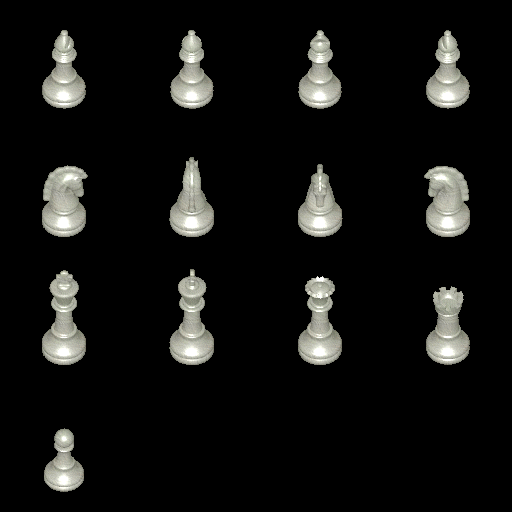
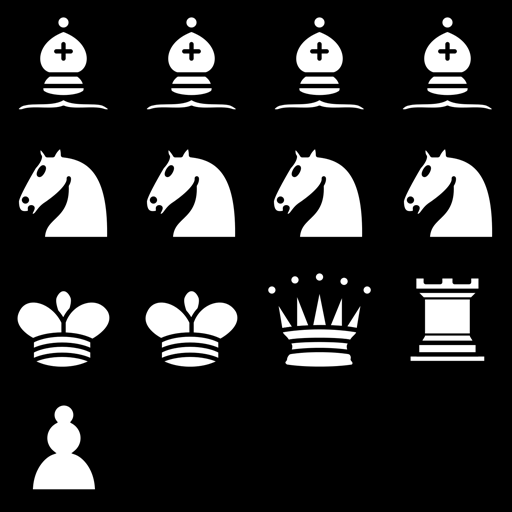
Updated visual

diff --git a/piece.py b/piece.py
@@ -8,107 +8,51 @@ from constants import BLACK, PIECE_GREEN_BG, TILE_LENGTH
 from utils import coordinate_builder_to_absolute_coord
 from client import Client
 
+selected_img = pygame.transform.scale(
+    pygame.image.load(os.path.join("assets", "images", "selected.png")),
+    (TILE_LENGTH, TILE_LENGTH))
+
 king_img_w = pygame.transform.scale(
-    pygame.image.load(os.path.join("assets", "images", "white_pieces.png")).subsurface((0, 256, 128, 128)),
+    pygame.image.load(os.path.join("assets", "images", "white_pieces", "white_king.png")),
     (TILE_LENGTH, TILE_LENGTH))
-king_img_w.set_colorkey(BLACK)
-king_img_ws = pygame.transform.scale(
-    pygame.image.load(os.path.join("assets", "images", "selected_pieces.png")).subsurface((0, 256, 128, 128)),
-    (TILE_LENGTH, TILE_LENGTH))
-king_img_ws.set_colorkey(BLACK)
 king_img_b = pygame.transform.scale(
-    pygame.image.load(os.path.join("assets", "images", "black_pieces.png")).subsurface((0, 256, 128, 128)),
+    pygame.image.load(os.path.join("assets", "images", "black_pieces", "black_king.png")),
     (TILE_LENGTH, TILE_LENGTH))
-king_img_b.set_colorkey(PIECE_GREEN_BG)
-king_img_bs = pygame.transform.scale(
-    pygame.image.load(os.path.join("assets", "images", "selected_pieces.png")).subsurface((0, 256, 128, 128)),
-    (TILE_LENGTH, TILE_LENGTH))
-king_img_bs.set_colorkey(BLACK)
 
 queen_img_w = pygame.transform.scale(
-    pygame.image.load(os.path.join("assets", "images", "white_pieces.png")).subsurface((256, 256, 128, 128)),
+    pygame.image.load(os.path.join("assets", "images", "white_pieces", "white_queen.png")),
     (TILE_LENGTH, TILE_LENGTH))
-queen_img_w.set_colorkey(BLACK)
-queen_img_ws = pygame.transform.scale(
-    pygame.image.load(os.path.join("assets", "images", "selected_pieces.png")).subsurface((256, 256, 128, 128)),
-    (TILE_LENGTH, TILE_LENGTH))
-queen_img_ws.set_colorkey(BLACK)
 queen_img_b = pygame.transform.scale(
-    pygame.image.load(os.path.join("assets", "images", "black_pieces.png")).subsurface((256, 256, 128, 128)),
+    pygame.image.load(os.path.join("assets", "images", "black_pieces", "black_queen.png")),
     (TILE_LENGTH, TILE_LENGTH))
-queen_img_b.set_colorkey(PIECE_GREEN_BG)
-queen_img_bs = pygame.transform.scale(
-    pygame.image.load(os.path.join("assets", "images", "selected_pieces.png")).subsurface((256, 256, 128, 128)),
-    (TILE_LENGTH, TILE_LENGTH))
-queen_img_bs.set_colorkey(BLACK)
 
 rook_img_w = pygame.transform.scale(
-    pygame.image.load(os.path.join("assets", "images", "white_pieces.png")).subsurface((384, 256, 128, 128)),
+    pygame.image.load(os.path.join("assets", "images", "white_pieces", "white_rook.png")),
     (TILE_LENGTH, TILE_LENGTH))
-rook_img_w.set_colorkey(BLACK)
-rook_img_ws = pygame.transform.scale(
-    pygame.image.load(os.path.join("assets", "images", "selected_pieces.png")).subsurface((384, 256, 128, 128)),
-    (TILE_LENGTH, TILE_LENGTH))
-rook_img_ws.set_colorkey(BLACK)
 rook_img_b = pygame.transform.scale(
-    pygame.image.load(os.path.join("assets", "images", "black_pieces.png")).subsurface((384, 256, 128, 128)),
+    pygame.image.load(os.path.join("assets", "images", "black_pieces", "black_rook.png")),
     (TILE_LENGTH, TILE_LENGTH))
-rook_img_b.set_colorkey(PIECE_GREEN_BG)
-rook_img_bs = pygame.transform.scale(
-    pygame.image.load(os.path.join("assets", "images", "selected_pieces.png")).subsurface((384, 256, 128, 128)),
-    (TILE_LENGTH, TILE_LENGTH))
-rook_img_bs.set_colorkey(BLACK)
 
 bishop_img_w = pygame.transform.scale(
-    pygame.image.load(os.path.join("assets", "images", "white_pieces.png")).subsurface((128, 0, 128, 128)),
+    pygame.image.load(os.path.join("assets", "images", "white_pieces", "white_bishop.png")),
     (TILE_LENGTH, TILE_LENGTH))
-bishop_img_w.set_colorkey(BLACK)
-bishop_img_ws = pygame.transform.scale(
-    pygame.image.load(os.path.join("assets", "images", "selected_pieces.png")).subsurface((128, 0, 128, 128)),
-    (TILE_LENGTH, TILE_LENGTH))
-bishop_img_ws.set_colorkey(BLACK)
 bishop_img_b = pygame.transform.scale(
-    pygame.image.load(os.path.join("assets", "images", "black_pieces.png")).subsurface((256, 0, 128, 128)),
+    pygame.image.load(os.path.join("assets", "images", "black_pieces", "black_bishop.png")),
     (TILE_LENGTH, TILE_LENGTH))
-bishop_img_b.set_colorkey(PIECE_GREEN_BG)
-bishop_img_bs = pygame.transform.scale(
-    pygame.image.load(os.path.join("assets", "images", "selected_pieces.png")).subsurface((256, 0, 128, 128)),
-    (TILE_LENGTH, TILE_LENGTH))
-bishop_img_bs.set_colorkey(BLACK)
 
 knight_img_w = pygame.transform.scale(
-    pygame.image.load(os.path.join("assets", "images", "white_pieces.png")).subsurface((128, 128, 128, 128)),
+    pygame.image.load(os.path.join("assets", "images", "white_pieces", "white_knight.png")),
     (TILE_LENGTH, TILE_LENGTH))
-knight_img_w.set_colorkey(BLACK)
-knight_img_ws = pygame.transform.scale(
-    pygame.image.load(os.path.join("assets", "images", "selected_pieces.png")).subsurface((128, 128, 128, 128)),
-    (TILE_LENGTH, TILE_LENGTH))
-knight_img_ws.set_colorkey(BLACK)
 knight_img_b = pygame.transform.scale(
-    pygame.image.load(os.path.join("assets", "images", "black_pieces.png")).subsurface((256, 128, 128, 128)),
+    pygame.image.load(os.path.join("assets", "images", "black_pieces", "black_knight.png")),
     (TILE_LENGTH, TILE_LENGTH))
-knight_img_b.set_colorkey(PIECE_GREEN_BG)
-knight_img_bs = pygame.transform.scale(
-    pygame.image.load(os.path.join("assets", "images", "selected_pieces.png")).subsurface((256, 128, 128, 128)),
-    (TILE_LENGTH, TILE_LENGTH))
-knight_img_bs.set_colorkey(BLACK)
 
 pawn_img_w = pygame.transform.scale(
-    pygame.image.load(os.path.join("assets", "images", "white_pieces.png")).subsurface((0, 384, 128, 128)),
+    pygame.image.load(os.path.join("assets", "images", "white_pieces", "white_pawn.png")),
     (TILE_LENGTH, TILE_LENGTH))
-pawn_img_w.set_colorkey(BLACK)
-pawn_img_ws = pygame.transform.scale(
-    pygame.image.load(os.path.join("assets", "images", "selected_pieces.png")).subsurface((0, 384, 128, 128)),
-    (TILE_LENGTH, TILE_LENGTH))
-pawn_img_ws.set_colorkey(BLACK)
 pawn_img_b = pygame.transform.scale(
-    pygame.image.load(os.path.join("assets", "images", "black_pieces.png")).subsurface((0, 384, 128, 128)),
+    pygame.image.load(os.path.join("assets", "images", "black_pieces", "black_pawn.png")),
     (TILE_LENGTH, TILE_LENGTH))
-pawn_img_b.set_colorkey(PIECE_GREEN_BG)
-pawn_img_bs = pygame.transform.scale(
-    pygame.image.load(os.path.join("assets", "images", "selected_pieces.png")).subsurface((0, 384, 128, 128)),
-    (TILE_LENGTH, TILE_LENGTH))
-pawn_img_bs.set_colorkey(BLACK)
 
 valid_move_dot = pygame.transform.scale(pygame.image.load(os.path.join("assets", "images", "valid_move_dot.png")),
                                         (TILE_LENGTH, TILE_LENGTH))
@@ -127,18 +71,7 @@ images = {
     "pawn_w": pawn_img_w,
     "pawn_b": pawn_img_b,
 
-    "king_ws": king_img_ws,
-    "king_bs": king_img_bs,
-    "queen_ws": queen_img_ws,
-    "queen_bs": queen_img_bs,
-    "rook_ws": rook_img_ws,
-    "rook_bs": rook_img_bs,
-    "bishop_ws": bishop_img_ws,
-    "bishop_bs": bishop_img_bs,
-    "knight_ws": knight_img_ws,
-    "knight_bs": knight_img_bs,
-    "pawn_ws": pawn_img_ws,
-    "pawn_bs": pawn_img_bs,
+    "selected": selected_img,
 }
 
 
@@ -272,7 +205,7 @@ class Piece:
         if not self.is_selected:
             img = images.get(self.img_name)
         else:
-            img = images.get(self.img_name + "s")
+            img = images.get("selected")
 
             # отрисовываем все возможные ходы если фигура выбрана
             for row, col in self.valid_moves:

diff --git a/easy_bot.py b/easy_bot.py
@@ -37,5 +37,7 @@ class EasyBot(Bot):
                             piece.move(move[0], move[1], self.board.board)
                             self.board.update_valid_moves()
                             print()
-                            print('Bot:' + "moved!", f'{(row, col)} -> {move}', '\n')
+                            print('Bot ' + "moved!", f'{(row, col)} -> {move}', '\n')
+                            if self.board.is_check:
+                                print("Шах чёрным!")
                             return [(row, col), move]

diff --git a/board.py b/board.py
@@ -9,7 +9,7 @@ from constants import BLACK, BOARD_LENGTH, FONT, GREEN, RED, SCREEN_HEIGHT, SCRE
 from piece import King, Queen, Rook, Bishop, Knight, Pawn, Piece
 
 board_surface = pygame.transform.scale(pygame.image.load(os.path.join("assets", "images", "chess_board.png")),
-                                       (BOARD_LENGTH, BOARD_LENGTH * 1.01538))
+                                       (BOARD_LENGTH, BOARD_LENGTH))
 
 CONST1 = 1.5
 class Board:

diff --git a/bot.py b/bot.py
@@ -10,13 +10,6 @@ import threading
 from piece import Piece
 
 
-@dataclasses.dataclass
-class Move:
-    piece: Piece
-    current_position: tuple[int, int]
-    new_position: tuple[int, int]
-
-
 class Bot(Client):
     def __init__(self, name: str, server_addr: tuple[str, int]):
         #сюда окно с очередью ивентов не передаём т.к тут нам рисовать окно не нужно
